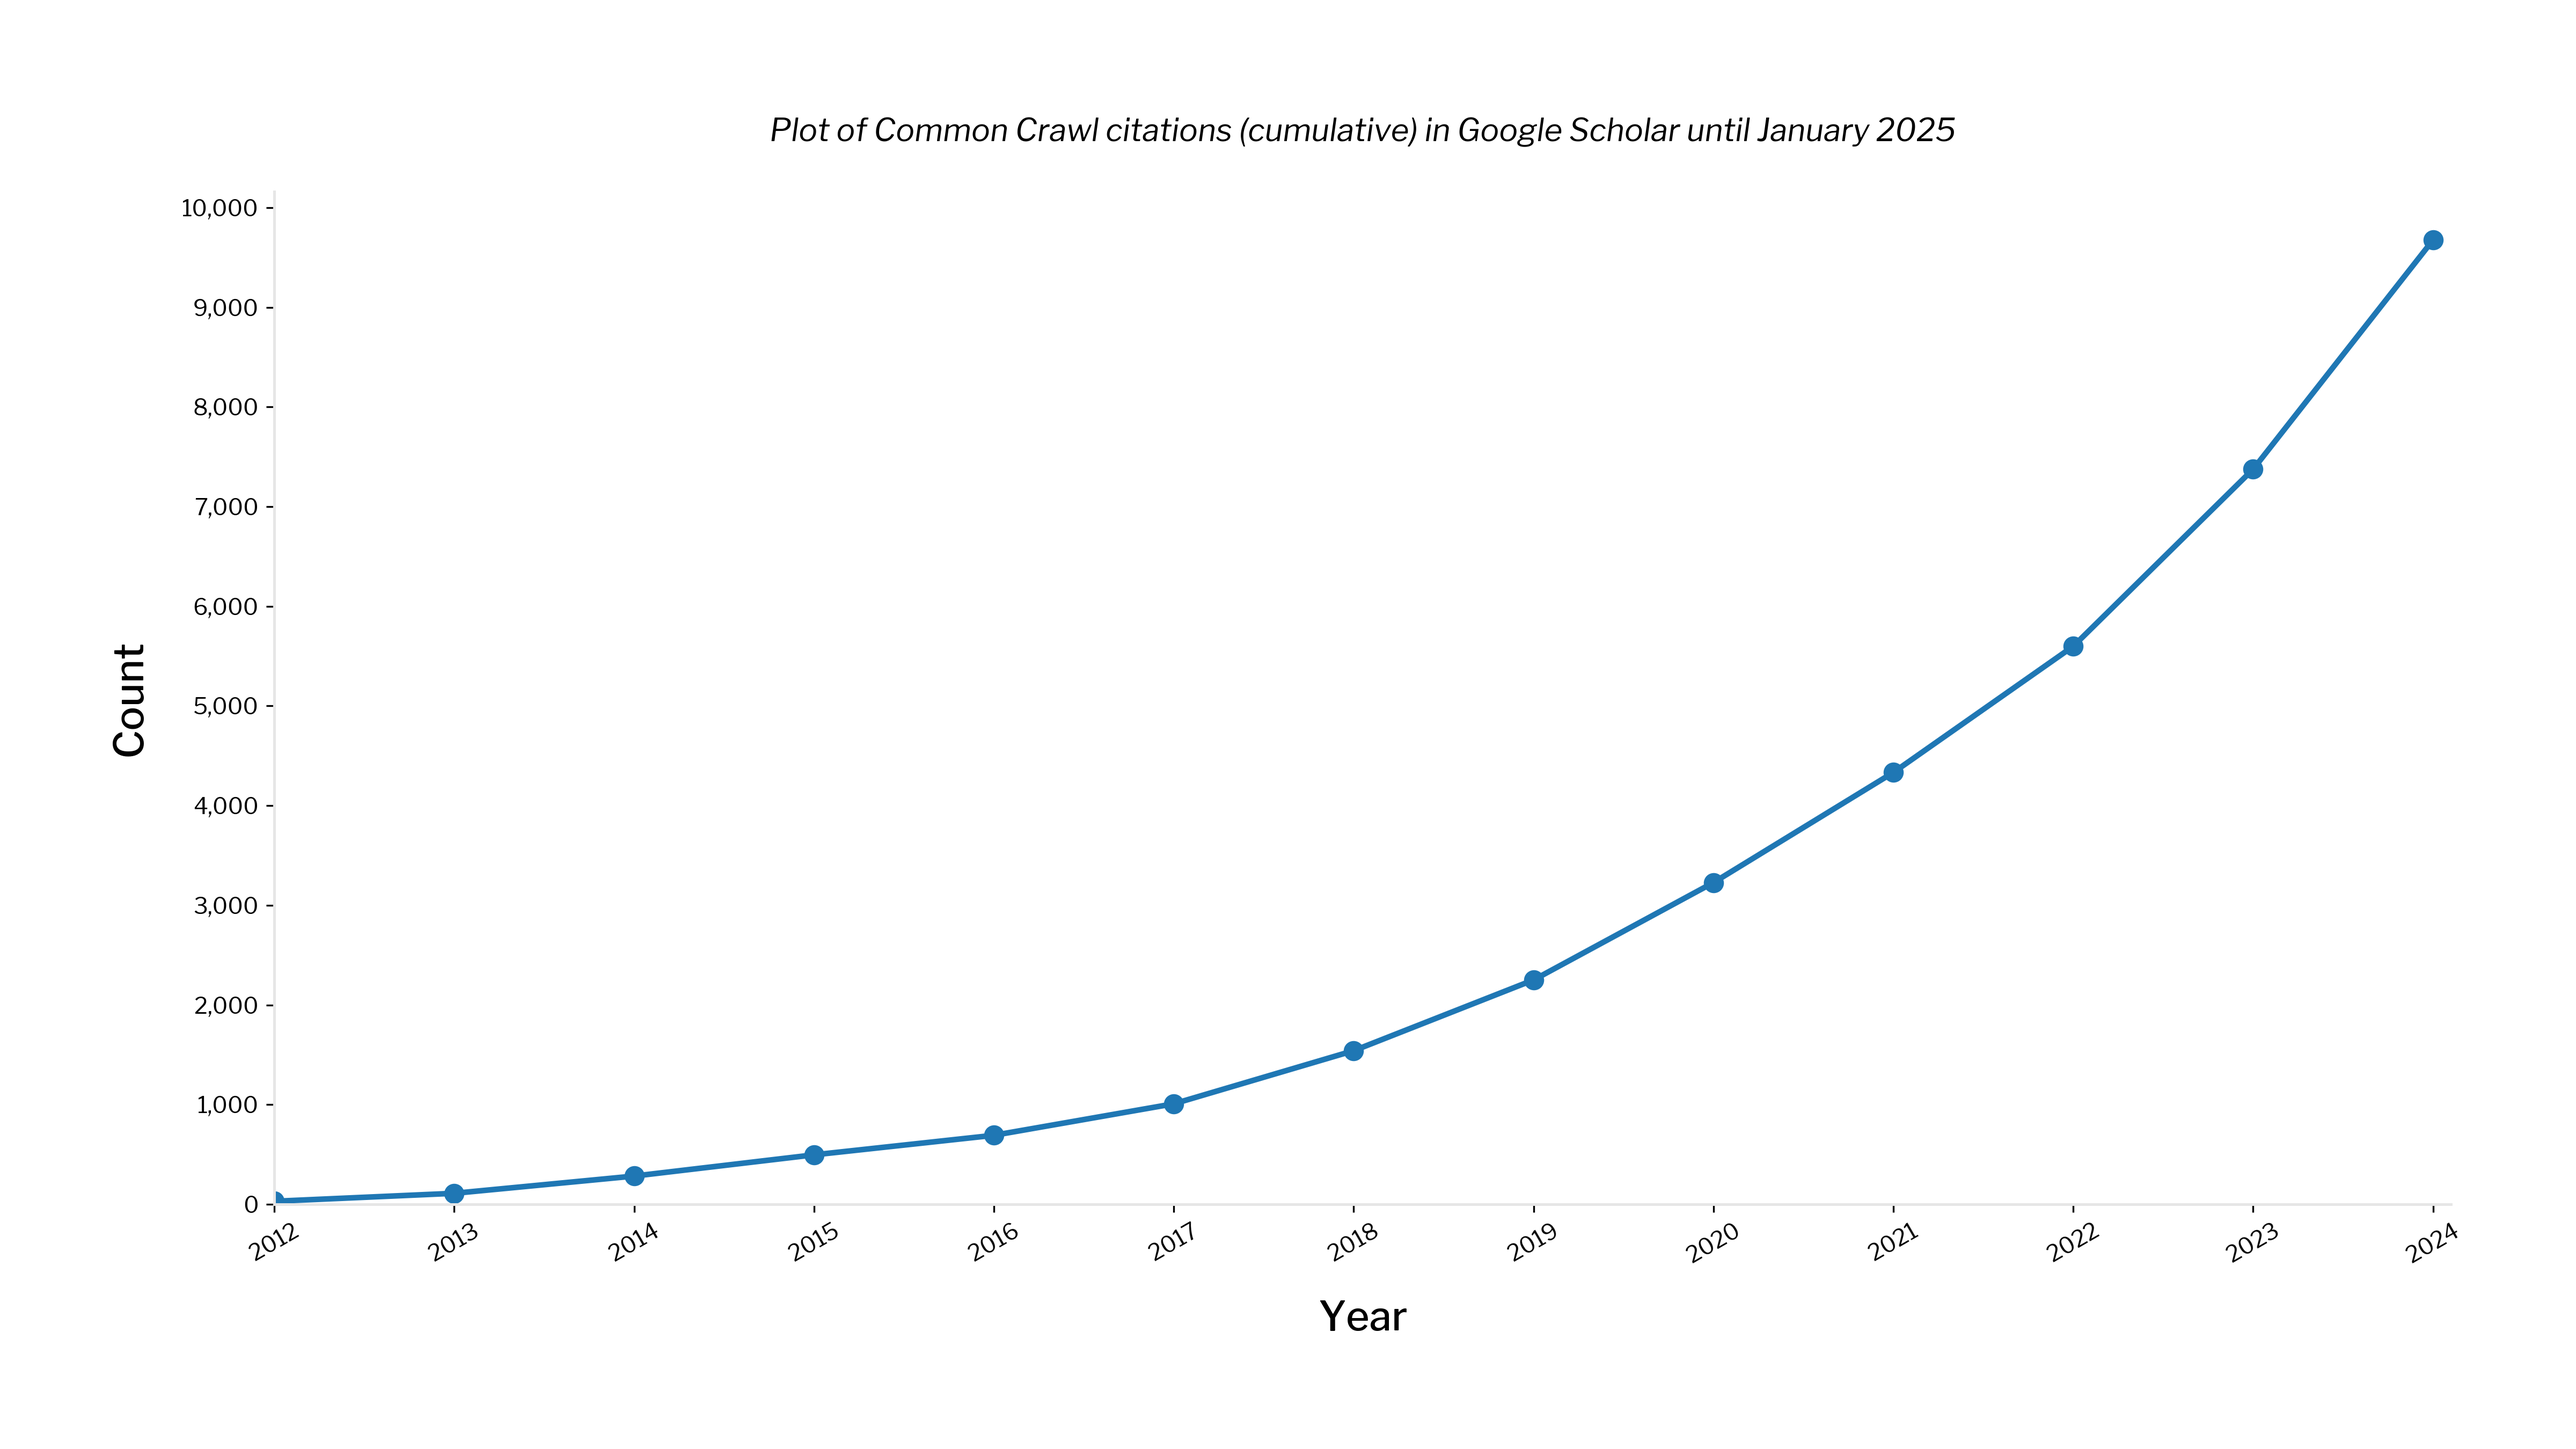
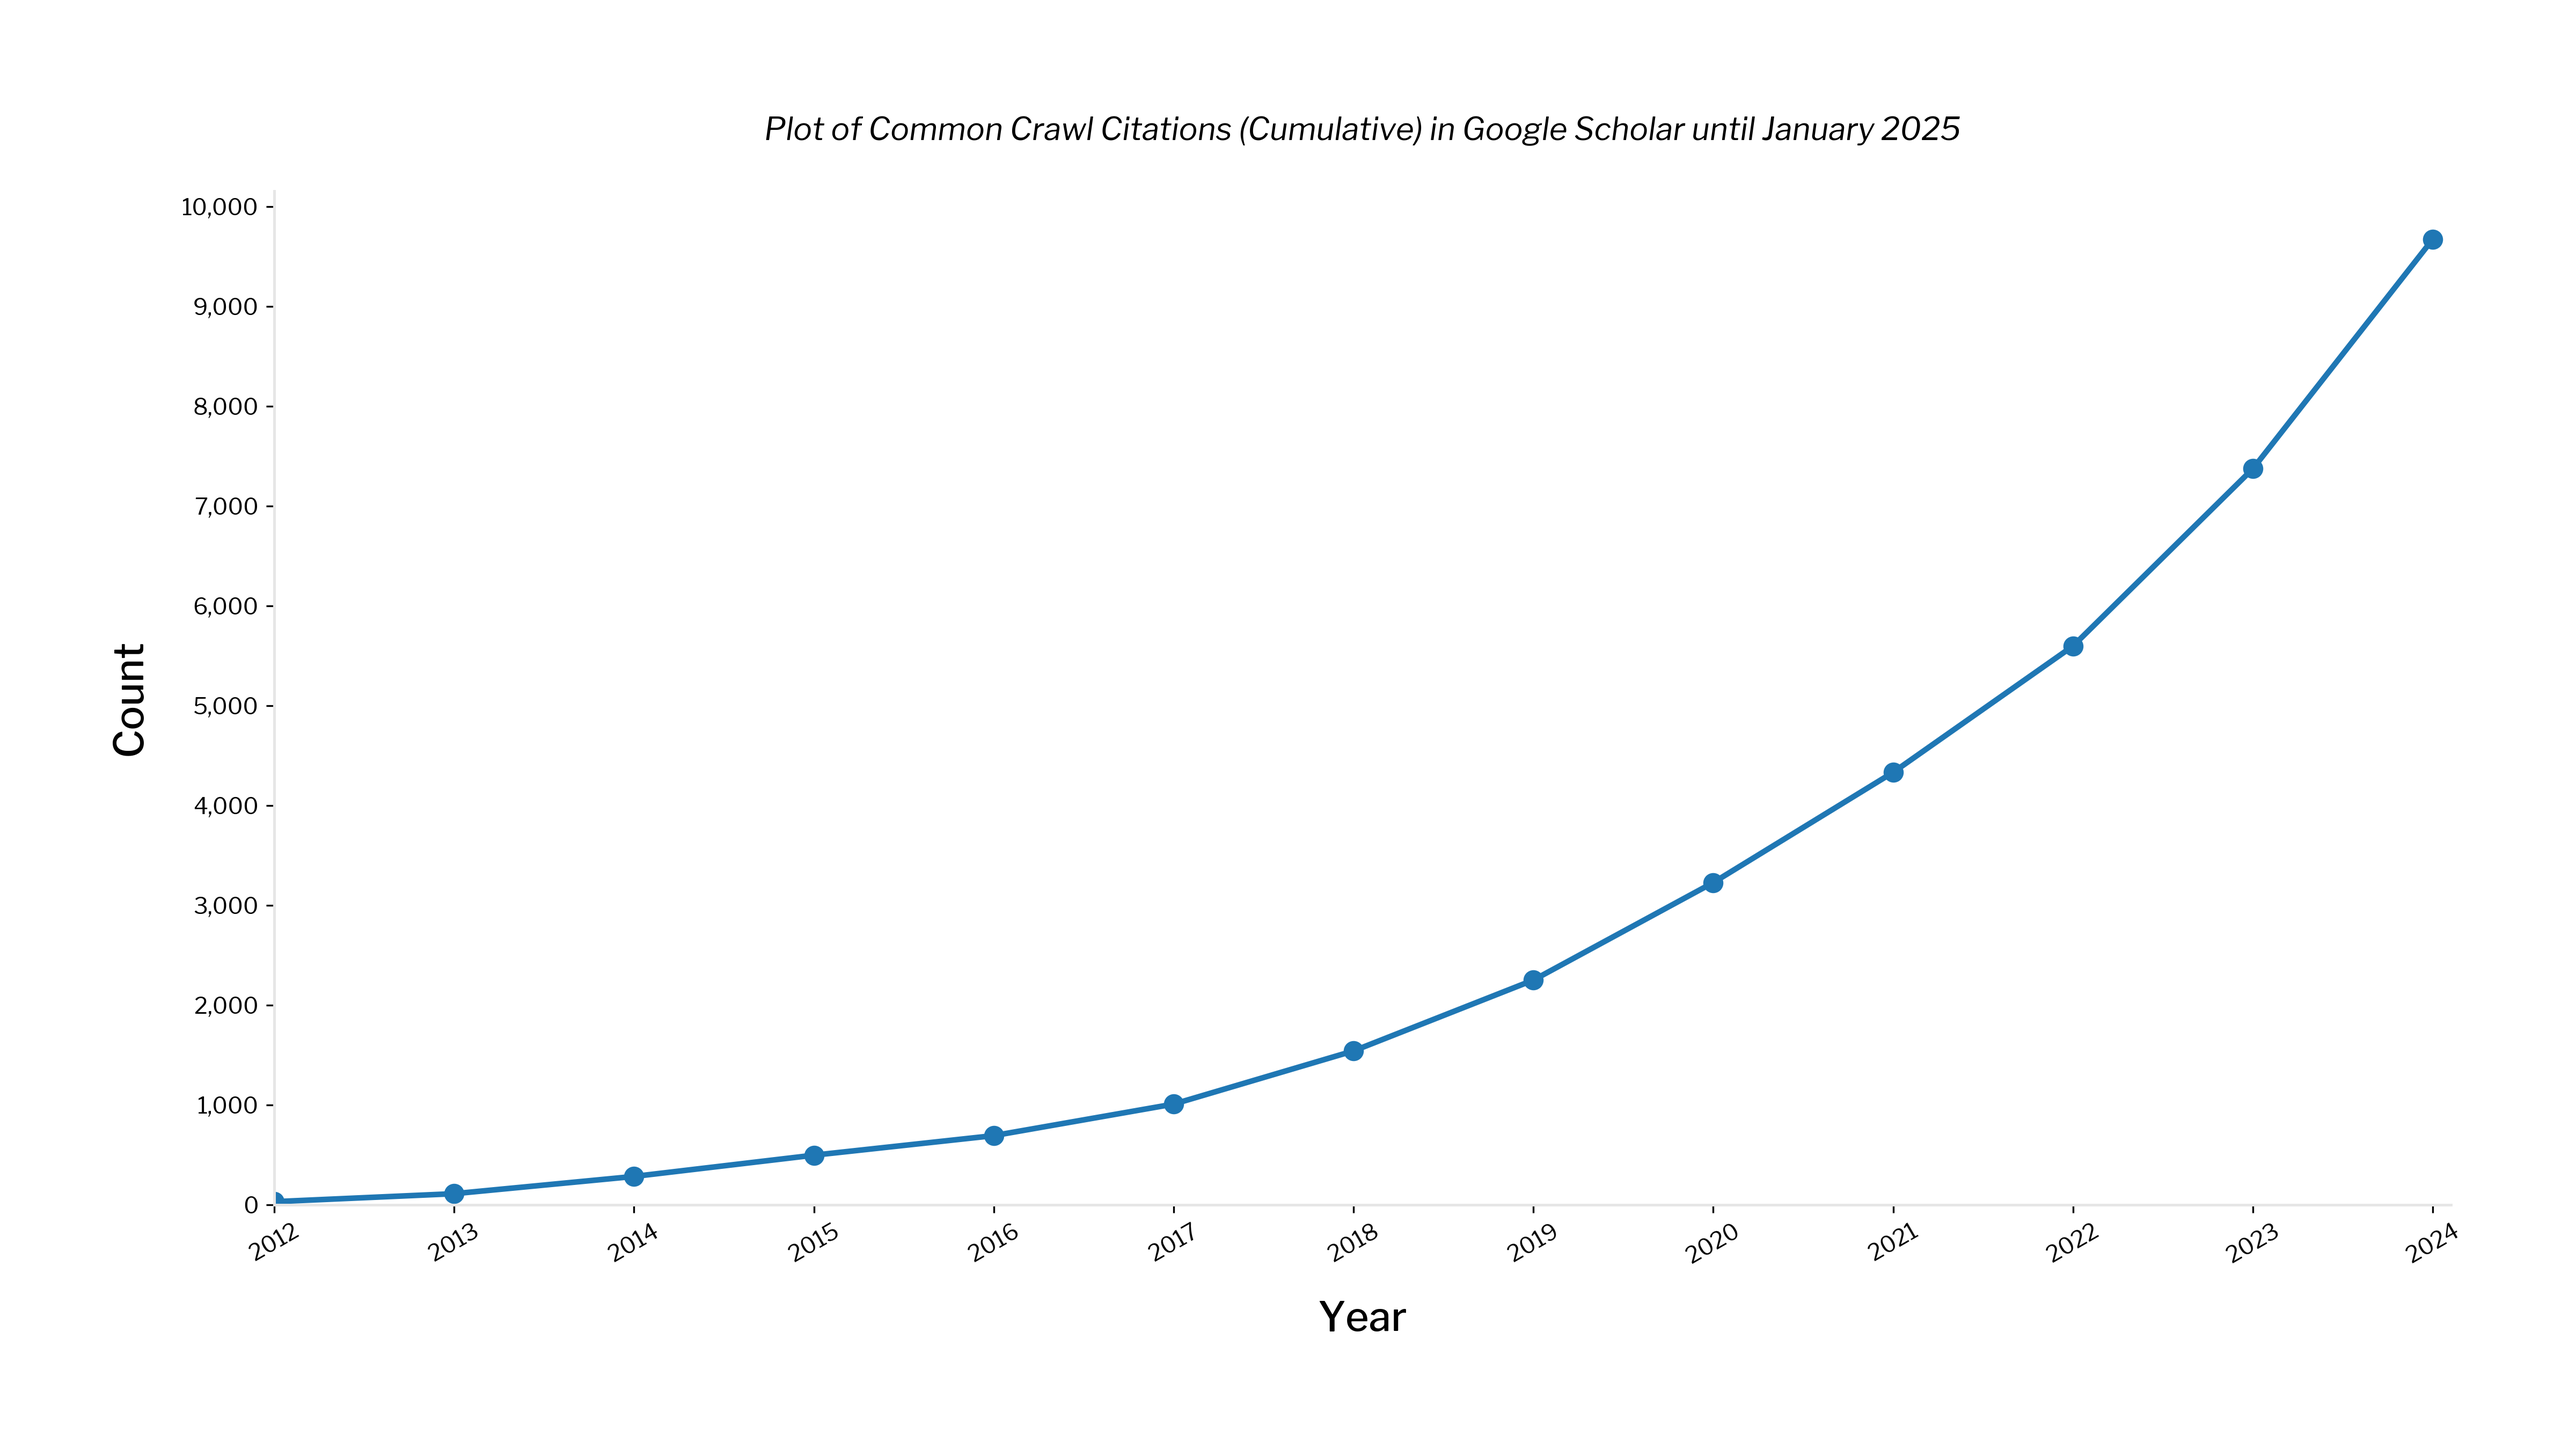
feat: update plots, and add further options to Python plot program

Changed region(s): [[0.4688, 0.0622, 0.75, 0.0933], [0.2812, 0.0622, 0.4375, 0.0933]]

diff --git a/citations_plot.py b/citations_plot.py
@@ -17,12 +17,15 @@ import matplotlib.ticker as ticker
 from matplotlib.font_manager import FontProperties
 import pandas as pd
 
-# Non-interactive mode for matplotlib
-matplotlib.use('Agg')
-
 parser = argparse.ArgumentParser()
 parser.add_argument('--transparent', action='store_true', help='Save plot with transparent background')
+parser.add_argument('--cumulative', action='store_true', help='Cumulative count of citations')
+parser.add_argument('--interactive', action='store_true', help='Present the plot in interactive mode')
 args = parser.parse_args()
+
+# Non-interactive mode for matplotlib
+if not args.interactive:
+    matplotlib.use('Agg')
 
 # These should be in the cwd, download from
 # https://fonts.google.com/specimen/Libre+Franklin
@@ -80,9 +83,19 @@ df_citations.to_csv(sys.stdout)
 # Now plot it
 plt.figure(figsize=(16, 9), facecolor='white')
 
+plot_count = 'count'
+plot_title = 'Plot of Common Crawl Citations'
+filename   = 'citations_' + str(cutoff) + '.png'
+
+if args.cumulative:
+    plot_title += ' (Cumulative)'
+    plot_count = 'cumulative_count'
+    filename = 'cumulative_citations_' + str(cutoff) + '.png'
+
+
 plt.plot(
     df_citations['year'],
-    df_citations['cumulative_count'],
+    df_citations[plot_count],
     marker='o',
     linestyle='-',
     linewidth=2.5,
@@ -92,7 +105,7 @@ plt.plot(
 
 plt.text(
     0.5, 1.05,
-    'Plot of Common Crawl citations (cumulative) in Google Scholar until January ' + str(cutoff),
+    plot_title + ' in Google Scholar until January ' + str(cutoff),
     fontsize=14,
     fontproperties=italic_prop,
     ha='center',
@@ -120,8 +133,8 @@ plt.xticks(
 )
 
 # Wiggle room
-buffer = df_citations['cumulative_count'].max() * 0.05
-plt.ylim(0, df_citations['cumulative_count'].max() + buffer)
+buffer = df_citations[plot_count].max() * 0.05
+plt.ylim(0, df_citations[plot_count].max() + buffer)
 
 x_min = df_citations['year'].min()
 x_max = df_citations['year'].max() + 0.1
@@ -131,7 +144,7 @@ ax = plt.gca()
 
 ax.yaxis.set_major_formatter(ticker.StrMethodFormatter('{x:,.0f}'))
 
-y_ticks = range(0, int(df_citations['cumulative_count'].max() + buffer) + 1, 1000)
+y_ticks = range(0, int(df_citations[plot_count].max() + buffer) + 1, 1000)
 plt.yticks(
     y_ticks,
     fontsize=14,
@@ -160,10 +173,12 @@ for label in ax.get_xticklabels() + ax.get_yticklabels():
 plt.tight_layout(pad=5)
 
 plt.savefig(
-    'cumulative_citations_' + str(cutoff) + '.png',
+    filename,
     transparent=args.transparent,
     dpi=300
 )
 
-# Don't show because we're not in interactive mode
-# plt.show()
+if args.interactive:
+    plt.show()
+
+# You can ignore stderr messages about IMKClient and IMKInputSession
